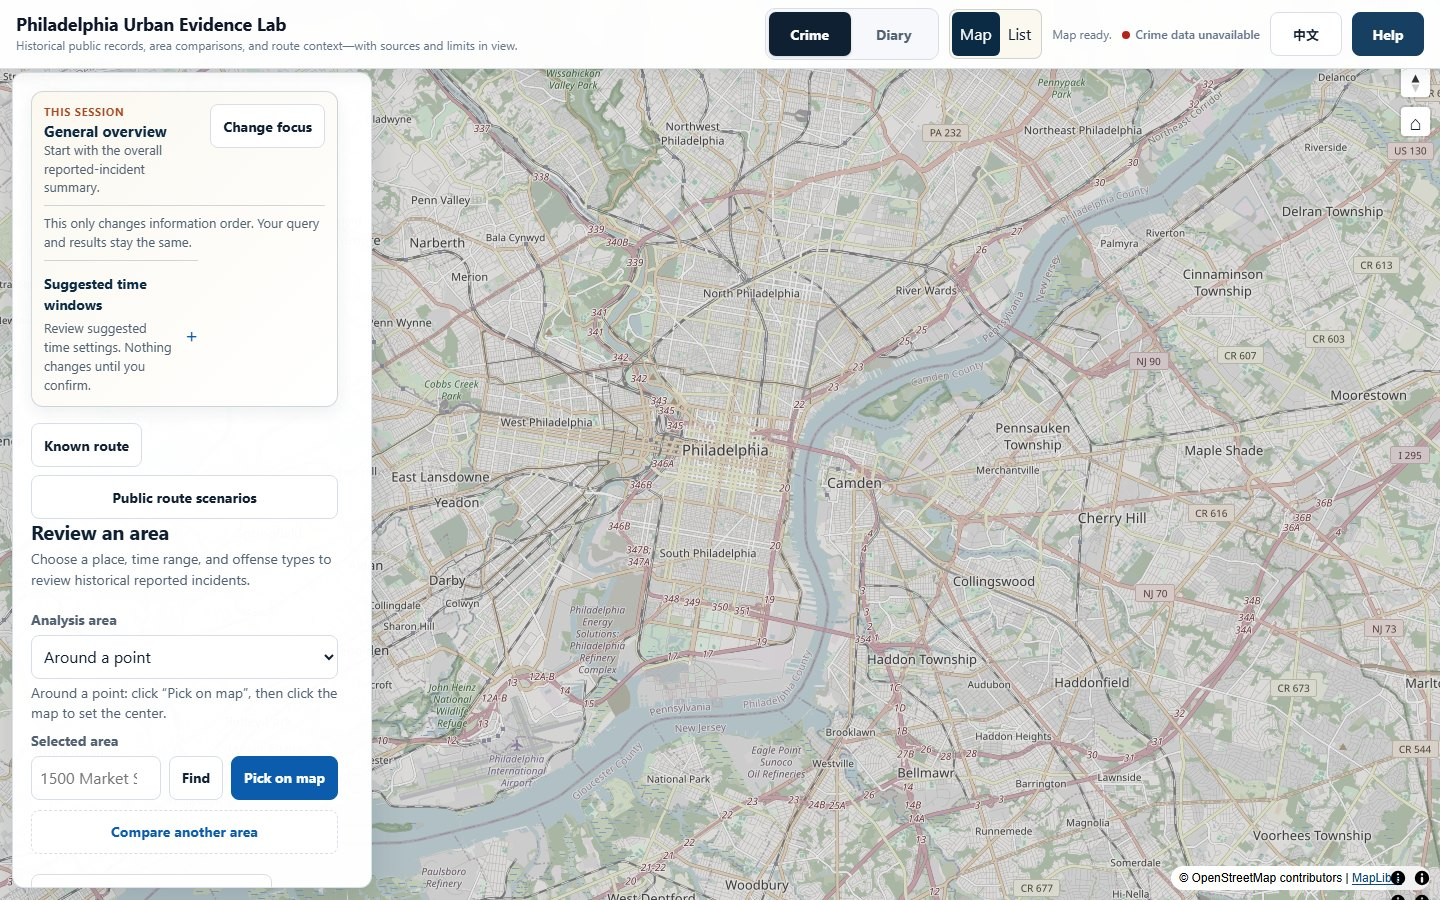
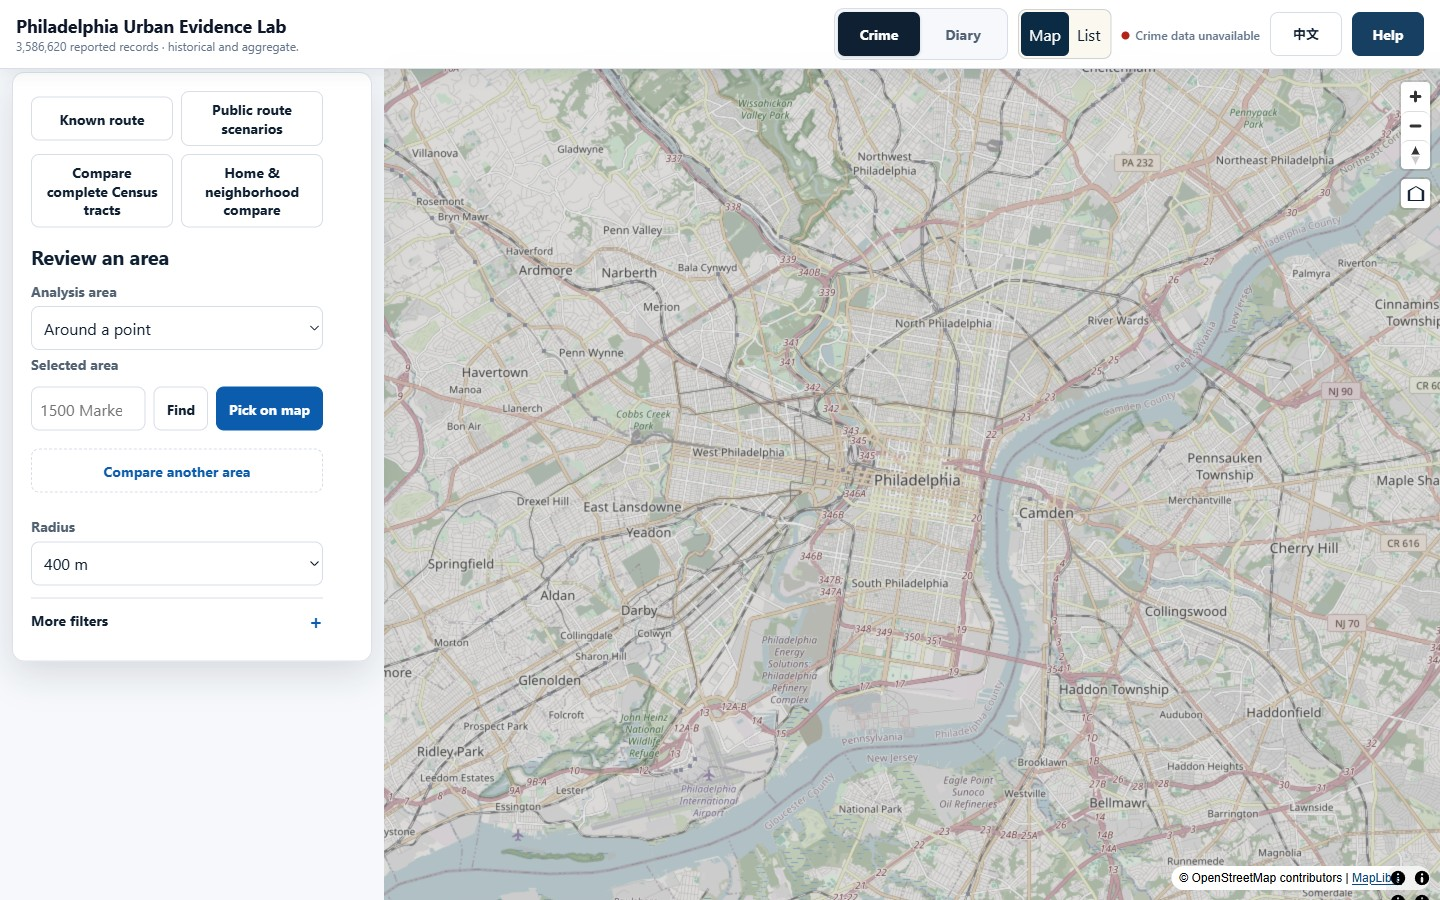
fix(ui): close final language and readiness gaps
Why: Final built-browser review exposed a pre-coverage map event exception, a stale translated legend title, and hidden Sample Community rating semantics after the copy/layout merge.

Constraint: Keep coverage fail-closed, retain the civic visual language, and simplify visible copy without weakening the no-safety-rating boundary.

Confidence: High; focused contracts and real 1440x900 English/Chinese Crime, Diary, and Sample Community flows pass with zero console errors.

Scope-risk: Medium because the fix crosses map lifecycle, runtime localization, copy, and browser visual assets.

Reversibility: Ordinary revert; no schema, dependency, data, or authority changes.

Tested: 88 Crime UI/points lifecycle checks, 13 Diary insight checks, production feature build, real browser language switching, and visual inspection of refreshed README screenshots.

Not-tested: Full composite release gate, Ubuntu visual identity, remote CI, merged main, and Pages serving.

diff --git a/src/i18n/messages.js b/src/i18n/messages.js
@@ -401,9 +401,9 @@ const messagePairs = Object.freeze({
   'diary.noLocalRatings': ['No local route ratings yet. Rate a demo route to add it here.', '还没有本地路线评分。为演示路线评分后会显示在这里。'],
   'diary.sampleCommunity': ['Sample Community', '社区示例'],
   'diary.communityNotice': ['Static read-only examples. Not real-time; not user-submitted; not representative of any population; no official endorsement; not a safety/risk rating. Nothing is shared.', '静态只读示例；非实时、非用户投稿、不代表任何总体、没有官方背书，也不是安全或风险评级。不会共享任何内容。'],
-  'diary.communitySummary': ['Static read-only examples', '静态只读示例'],
+  'diary.communitySummary': ['Static examples — not real-time or user-submitted, not representative, no official endorsement, and not safety/risk ratings', '静态示例：非实时、非用户投稿、不代表任何总体、没有官方背书，也不是安全或风险评级'],
   'diary.sampleRouteRatings': ['Static example experience ratings', '静态示例体验评分'],
-  'diary.sampleScoreLabel': ['Static example experience {score}/5', '静态示例体验 {score}/5'],
+  'diary.sampleScoreLabel': ['Static example experience {score}/5; not a safety/risk rating', '静态示例体验 {score}/5；不是安全或风险评级'],
   'diary.tags': ['Tags: {tags}', '标签：{tags}'],
   'diary.importedEntries': ['Imported {count} local Diary entries.', '已导入 {count} 条本地日记记录。'],
   'diary.importFailed': ['Diary backup could not be imported.', '无法导入日记备份。'],

diff --git a/src/map/wire_points.js b/src/map/wire_points.js
@@ -51,7 +51,7 @@ function isAbortError(error) {
 
 /**
  * Wire map move events to refresh clustered points with simple error backoff and toast.
- * deps: { getFilters: () => ({start,end,types}) }
+ * deps: { getFilters: () => ({start,end,types}), canReadFilters?: () => boolean }
  * @param {import('maplibre-gl').Map} map
  * @param {{getFilters:Function}} deps
  */
@@ -64,6 +64,7 @@ export function wirePoints(map, deps) {
     hideToast = hideToastInDom,
     scheduler = globalThis,
     shouldRefresh = () => true,
+    canReadFilters = () => true,
     autoRefresh = true,
     incidentResultsController = null,
     _loadIncidentModule = () => import('../routes_crime/incident_results_controller.js'),
@@ -145,6 +146,9 @@ export function wirePoints(map, deps) {
     { signal: ownerSignal, shouldApply: ownerShouldApply = () => true } = {},
   ) => {
     if (!active || ownerSignal?.aborted || !ownerShouldApply()) return { applied: false };
+    if (filtersOverride === undefined && !canReadFilters()) {
+      return { applied: false, status: 'idle' };
+    }
     const filters = filtersOverride === undefined ? getFilters() : filtersOverride;
     if (!shouldRefresh(filters)) {
       invalidate();
@@ -228,11 +232,13 @@ export function wirePoints(map, deps) {
       settleProgrammaticMove(true);
       return;
     }
+    if (!canReadFilters()) return;
     const filters = getFilters();
     if (!shouldRefresh(filters)) return;
     debouncedMoveEnd(filters);
   };
   const onLoad = () => {
+    if (!canReadFilters()) return;
     const filters = getFilters();
     if (shouldRefresh(filters)) void run(filters);
   };

diff --git a/src/map/legend.js b/src/map/legend.js
@@ -8,6 +8,9 @@ import { localizeOffenseCode } from '../i18n/crime_offenses.js';
 let legendContainer = null;
 
 onLanguageChange(() => {
+  for (const label of legendContainer?.querySelectorAll?.('[data-i18n]') || []) {
+    setTranslatedText(label, label.dataset.i18n);
+  }
   for (const label of legendContainer?.querySelectorAll?.('[data-offense-code]') || []) {
     label.textContent = localizeOffenseCode(label.dataset.offenseCode);
   }
@@ -44,9 +47,9 @@ export function updateLegend({ title, unit = '', breaks, colors, subtitle, items
   }
 
   const rows = renderHeader(title, subtitle);
+  setTranslatedText(rows[0], title || 'map.legend');
 
   if (categorical) {
-    setTranslatedText(rows[0], title);
     setTranslatedText(rows[1], subtitle);
     rows.push(...items.map(({ color, code }) => renderRow(color, localizeOffenseCode(code), code)));
     renderLegendRows(rows);
@@ -70,7 +73,7 @@ export function updateLegend({ title, unit = '', breaks, colors, subtitle, items
 }
 
 function renderHeader(title, subtitle) {
-  const rows = [renderText('div', 'map-legend__title', title || t('map.legend'))];
+  const rows = [renderText('div', 'map-legend__title', t(title || 'map.legend'))];
   if (!subtitle) return rows;
   rows.push(renderText('div', 'map-legend__subtitle', subtitle));
   return rows;

diff --git a/src/routes_diary/ui_community_panel.js b/src/routes_diary/ui_community_panel.js
@@ -29,11 +29,7 @@ export function renderCommunityPanel(container, state = {}) {
   const noticeText = document.createElement('div');
   noticeText.className = 'diary-muted-text';
   setTranslatedText(noticeText, 'diary.communitySummary');
-  const fullNotice = document.createElement('span');
-  fullNotice.hidden = true;
-  setTranslatedText(fullNotice, 'diary.communityNotice');
   notice.appendChild(noticeText);
-  notice.appendChild(fullNotice);
   container.appendChild(notice);
 
   // Static illustrative experience ratings; never community or safety evidence.

diff --git a/src/map/render_choropleth_tracts.js b/src/map/render_choropleth_tracts.js
@@ -32,7 +32,7 @@ export function renderTractsChoropleth(map, merged) {
       ? merged.statusMessage
       : t('crime.noTractIncidents'));
   } else {
-    updateLegend({ title: t('crime.censusTracts'), breaks, colors, subtitle });
+    updateLegend({ title: 'crime.censusTracts', breaks, colors, subtitle });
 
     // Build step expression for fill color
     const { paintProps } = toMapLibreStep(breaks, colors, { opacity: store.classOpacity });

diff --git a/src/map/render_choropleth.js b/src/map/render_choropleth.js
@@ -19,7 +19,7 @@ export function renderDistrictChoropleth(map, merged) {
   if (allZero || breaks.length === 0) {
     hideLegend();
   } else {
-    updateLegend({ title: t('crime.districts'), breaks, colors });
+    updateLegend({ title: 'crime.districts', breaks, colors });
   }
 
   // Build step expression from classifier

diff --git a/src/routes_crime/index.js b/src/routes_crime/index.js
@@ -296,6 +296,7 @@ export async function initCrimeMode(map, {
 
   const pointsController = wirePoints(map, {
     getFilters: captureCrimeSnapshot,
+    canReadFilters: () => store.coverageStatus === 'ready',
     shouldRefresh: hasActiveIncidentSelection,
     autoRefresh: false,
   });
